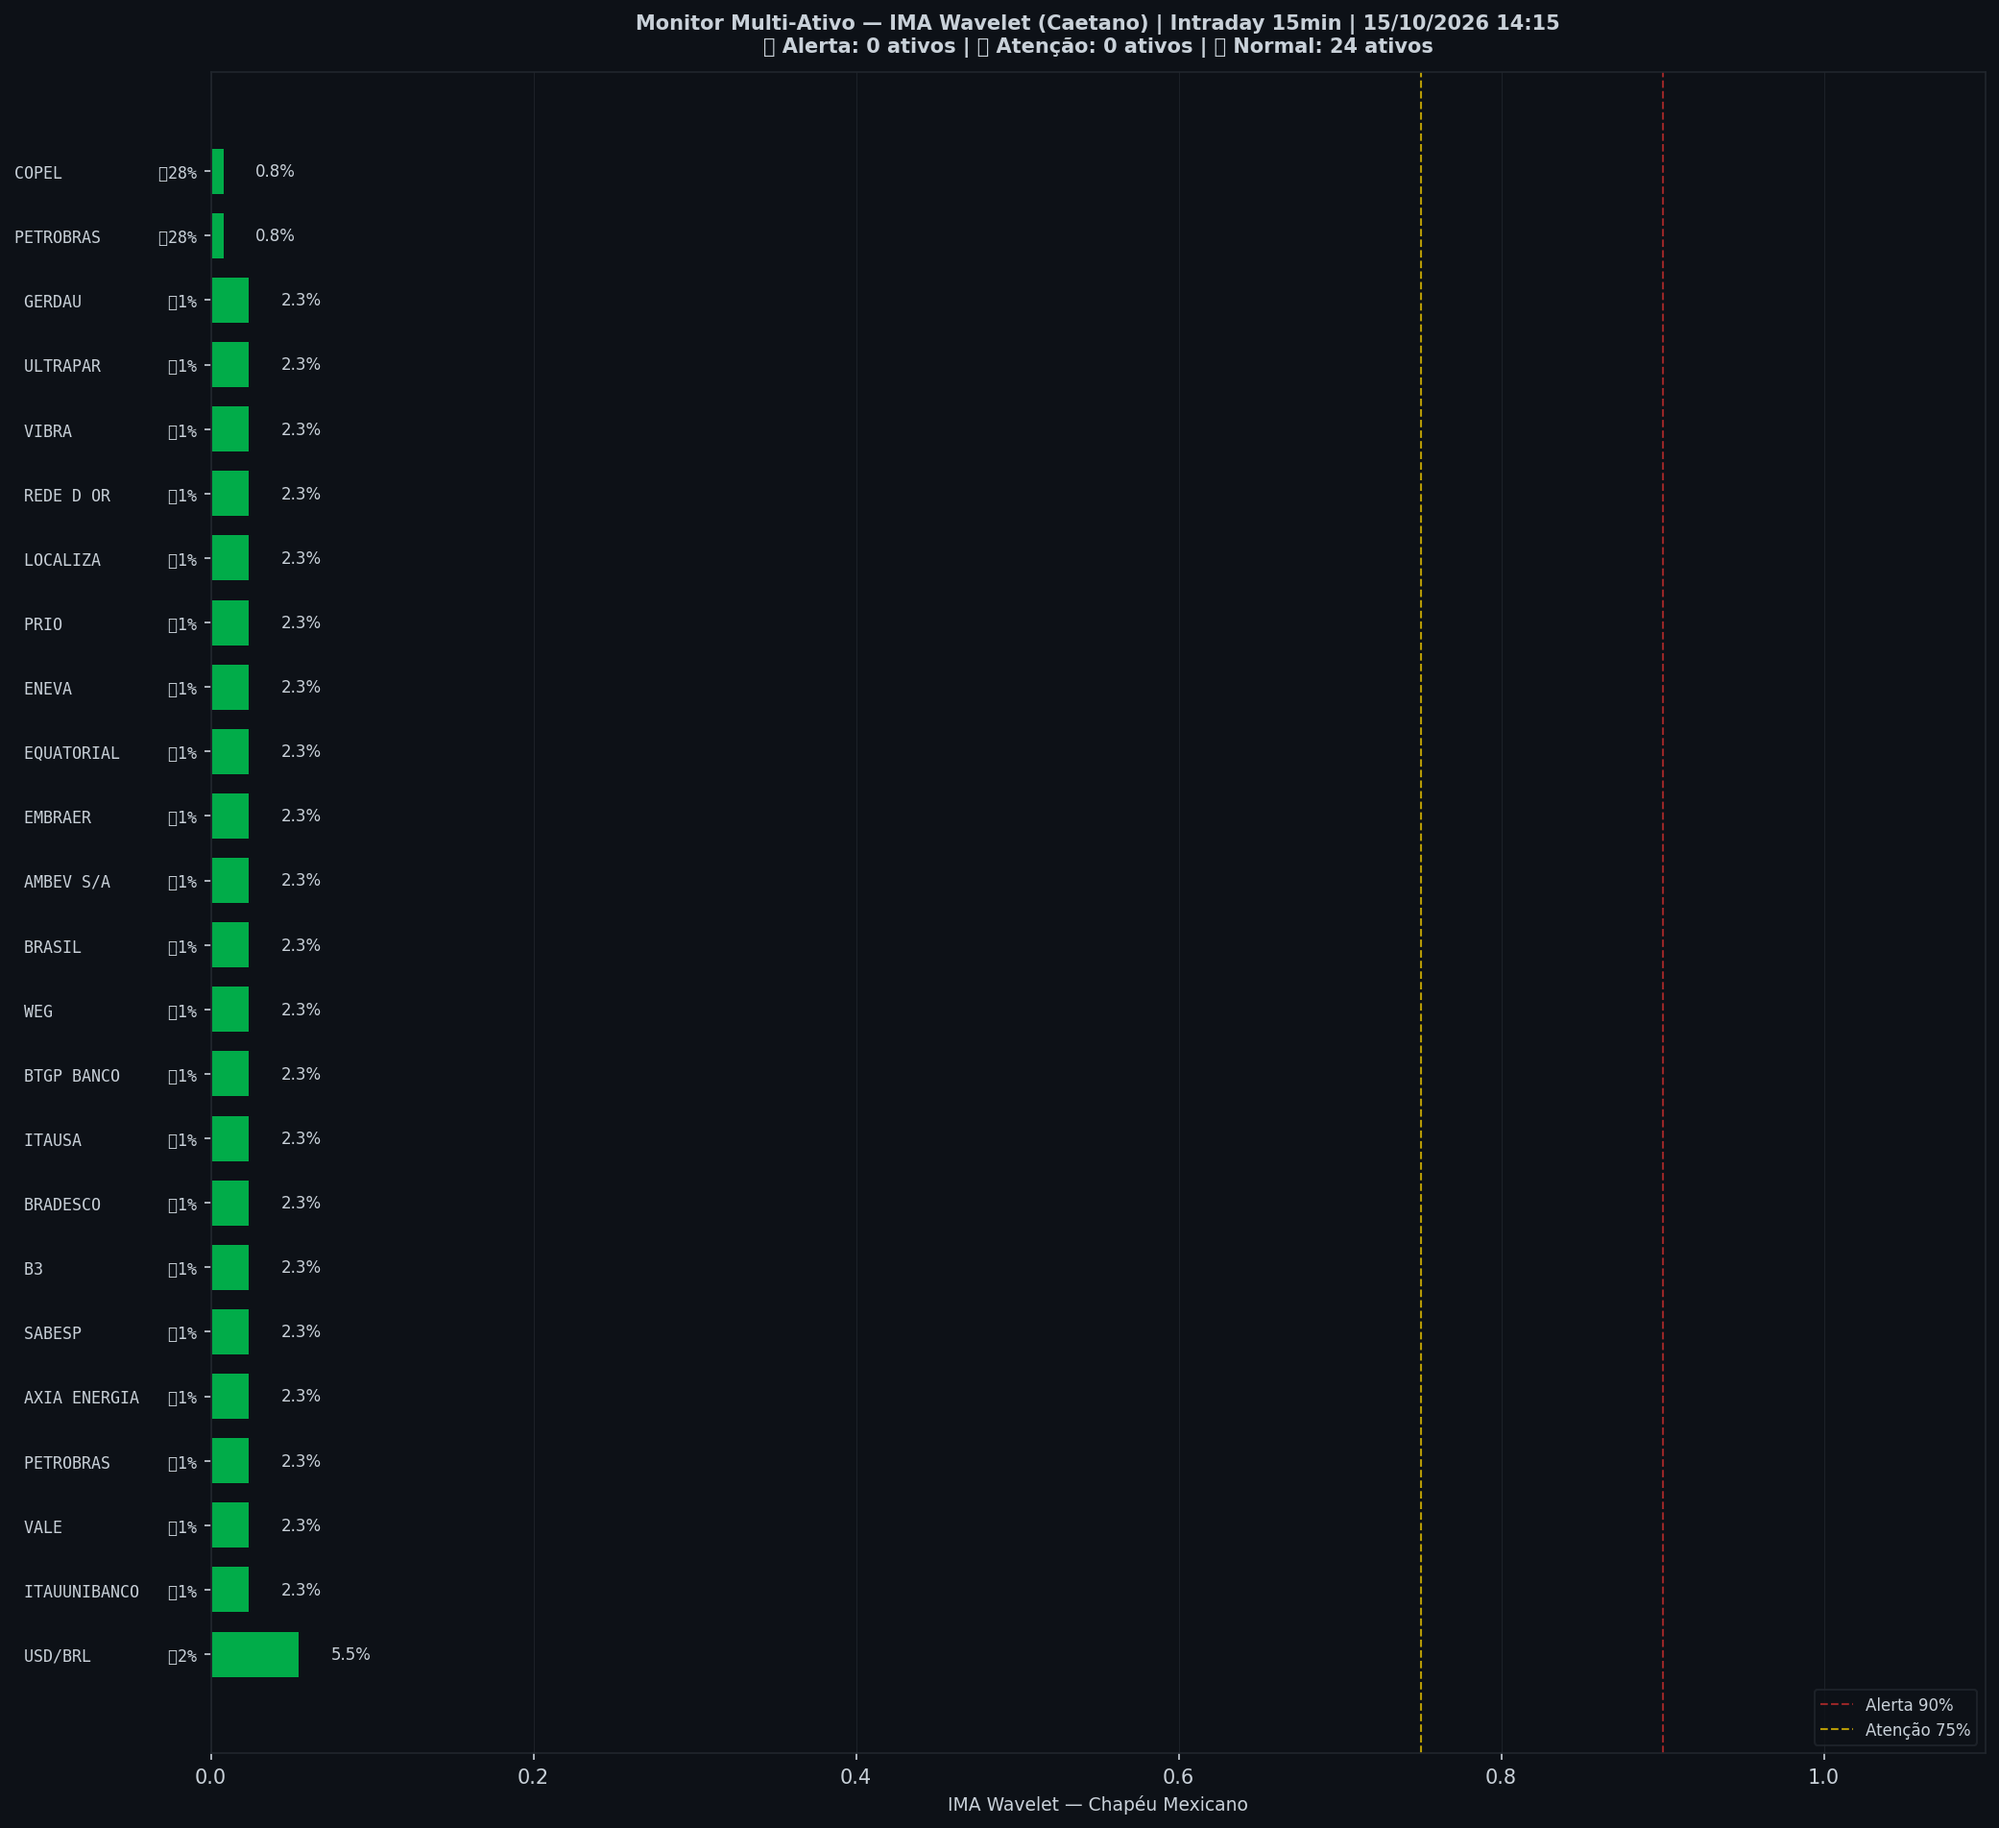
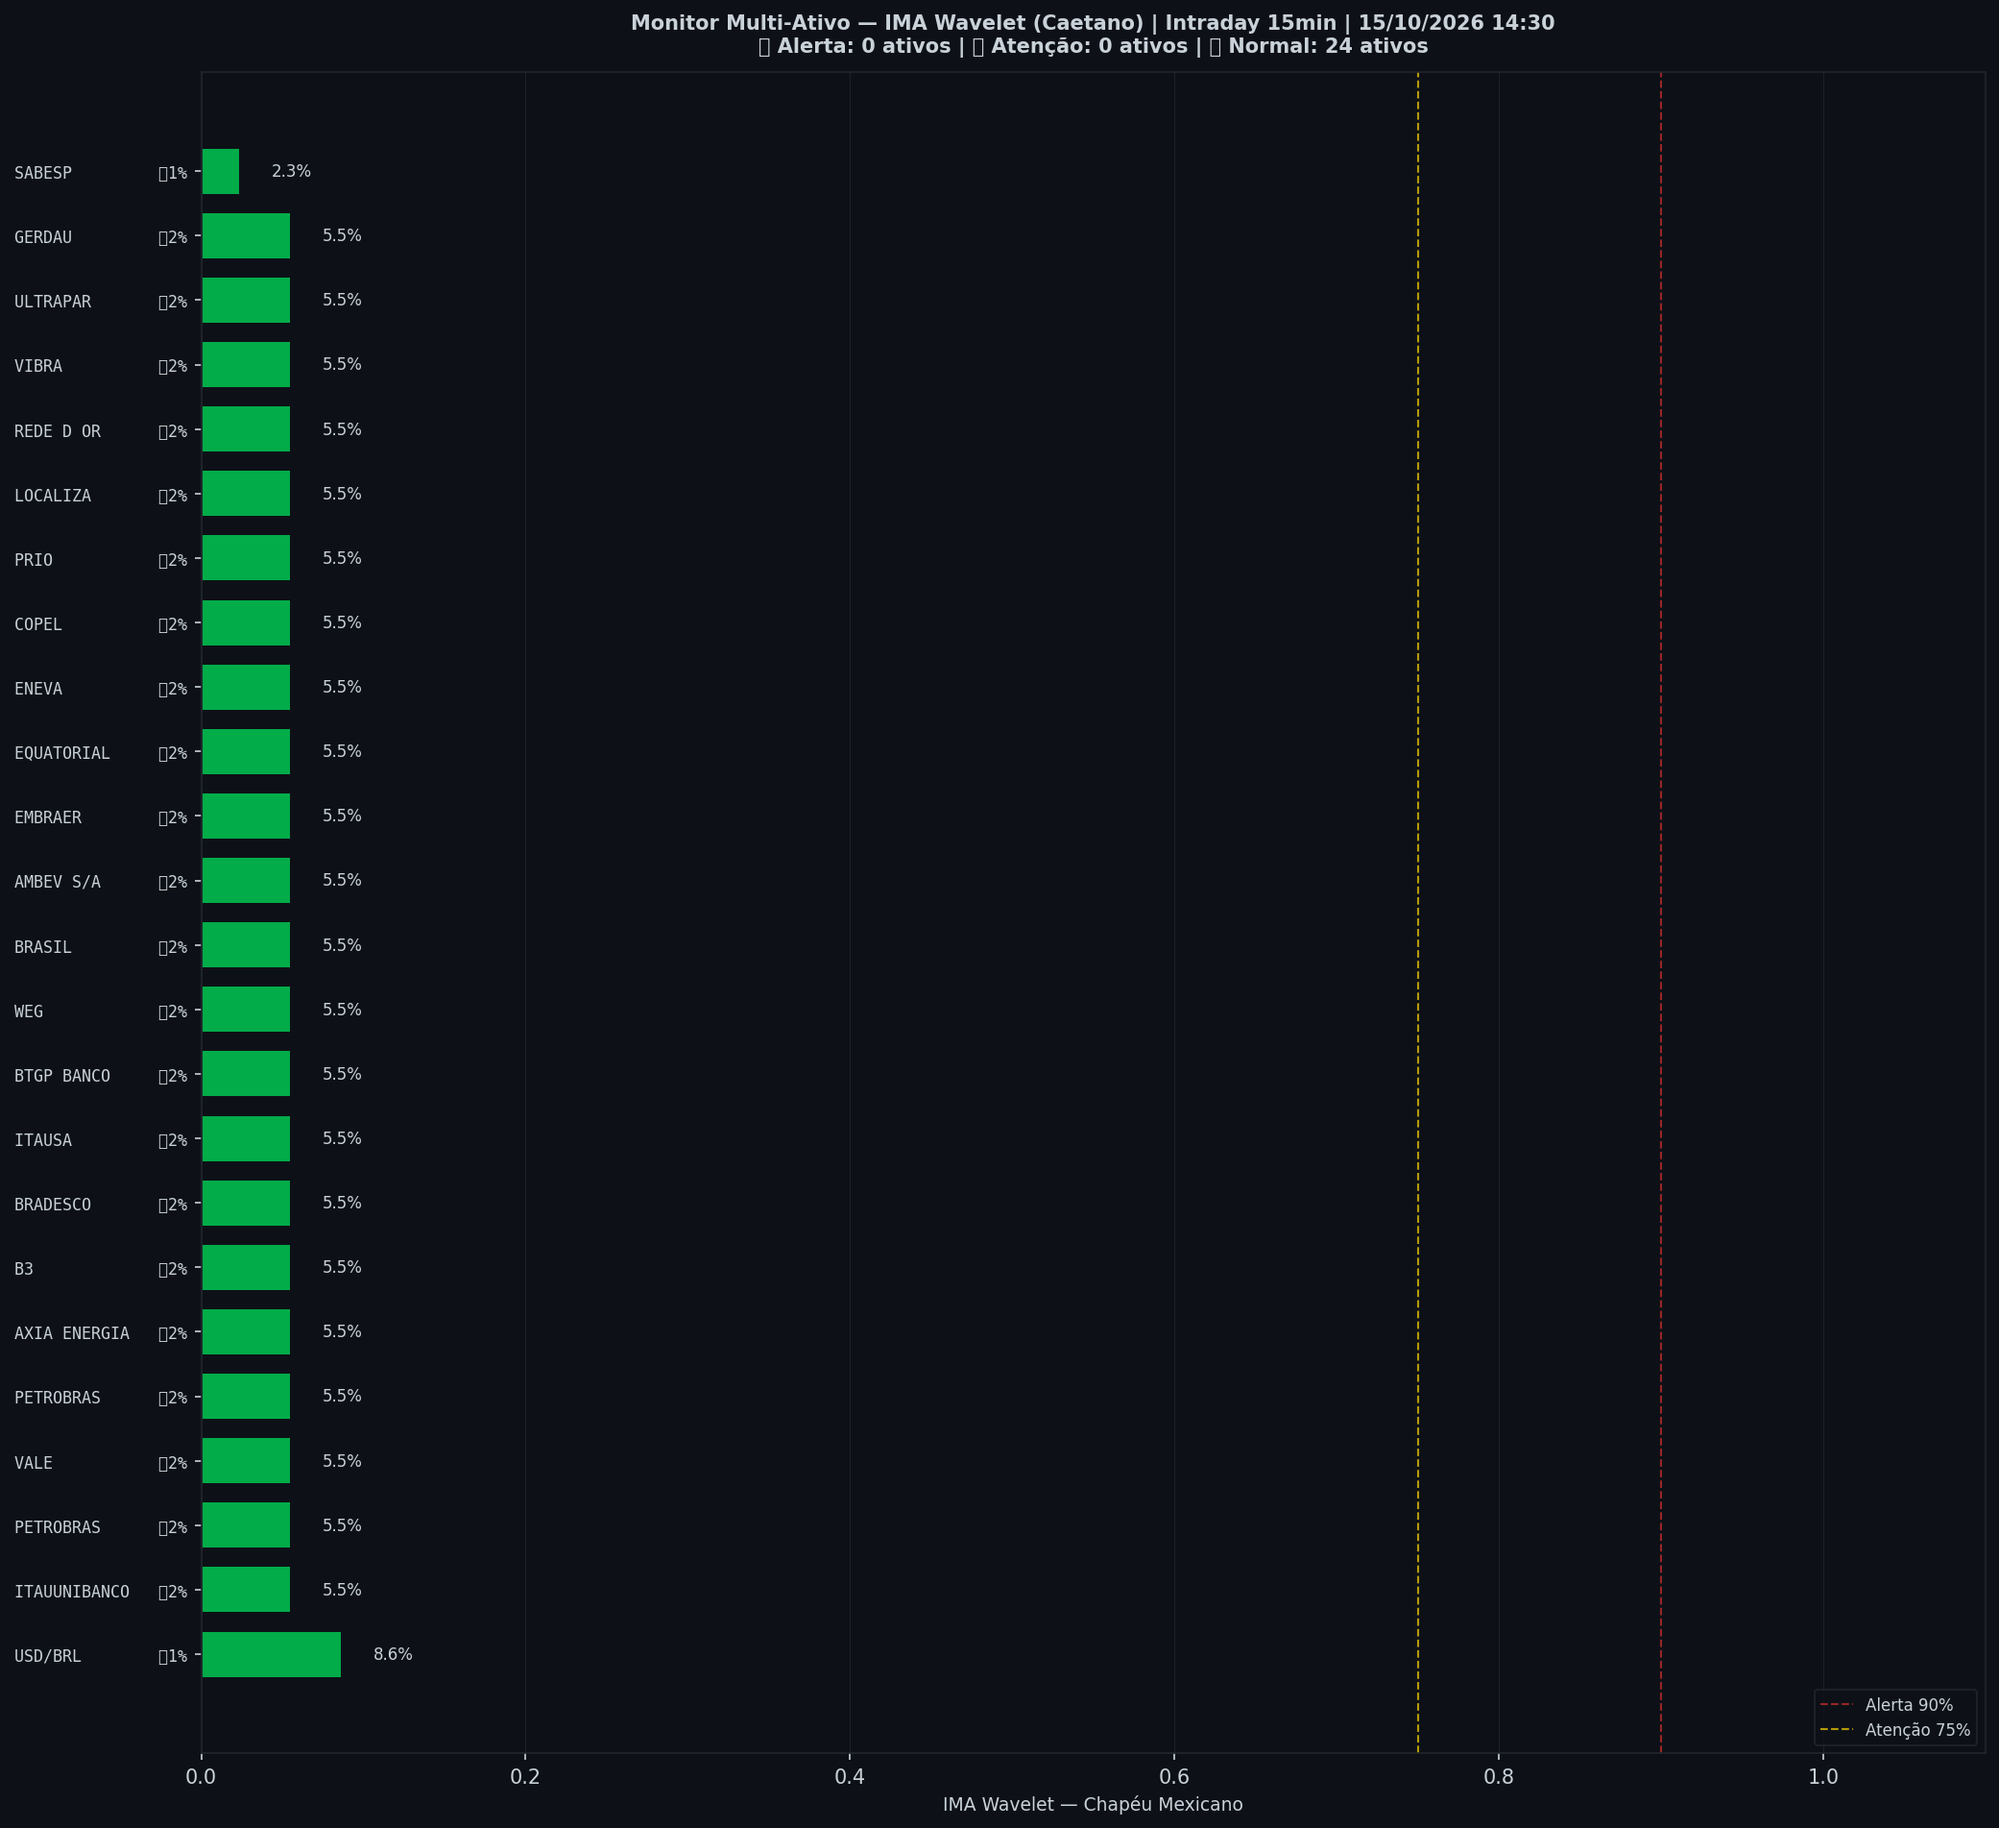
🤖 Auto: Sinal 15/10/2026 14:30

diff --git a/content/intraday/2026-10-15.md b/content/intraday/2026-10-15.md
@@ -1,5 +1,5 @@
 ---
-title: "🟢 Intraday 15/10/2026 13:30 BRT — VERDE"
+title: "🟢 Intraday 15/10/2026 13:45 BRT — VERDE"
 date: 2026-10-15
 tags: [intraday]
 ---
@@ -14,7 +14,7 @@ tags: [intraday]
 | 🔴 ζ Crash — severidade da queda em curso | **0%** |
 | 🔵 ζ Entrada — estrutura de fundo | 38% |
 | 🫧 LPPL DS-Confidence | 0% |
-| 📊 Ibovespa | 205.900 pts |
+| 📊 Ibovespa | 205.621 pts |
 
 ![Gráfico do sinal](../graficos/sinal_intraday.png)
 
@@ -22,6 +22,7 @@ tags: [intraday]
 
 | Data | Zona | Risco | IMA Crash | Entrada | LPPL |
 |---|---|---|---|---|---|
+| 2026-10-15 13:45 | 🟢 VERDE | **0%** | 0% | 38% | 0% |
 | 2026-10-15 13:30 | 🟢 VERDE | **0%** | 0% | 38% | 0% |
 | 2026-10-15 13:15 | 🟢 VERDE | **0%** | 0% | 36% | 0% |
 | 2026-10-15 13:00 | 🟢 VERDE | **1%** | 1% | 34% | 0% |
@@ -51,7 +52,6 @@ tags: [intraday]
 | 2026-10-14 14:00 | 🟢 VERDE | **0%** | 0% | 2% | 0% |
 | 2026-10-14 13:45 | 🟢 VERDE | **1%** | 1% | 8% | 0% |
 | 2026-10-14 13:30 | 🟢 VERDE | **0%** | 0% | 79% | 0% |
-| 2026-10-14 13:15 | 🟢 VERDE | **0%** | 0% | 83% | 0% |
 
 ## Monitor Multi-Ativo
 
@@ -59,34 +59,34 @@ tags: [intraday]
 
 | Zona | Ativo | Setor | IMA Crash | IMA Entrada |
 |---|---|---|---|---|
-| 🟢 | **USD/BRL** | Câmbio | 5.5% | 1.6% |
-| 🟢 | **ITAUUNIBANCO** | Financeiro | 2.3% | 0.8% |
-| 🟢 | **VALE** | Mineração | 2.3% | 0.8% |
-| 🟢 | **PETROBRAS** | Petróleo | 2.3% | 0.8% |
-| 🟢 | **AXIA ENERGIA** | Energia | 2.3% | 0.8% |
+| 🟢 | **USD/BRL** | Câmbio | 8.6% | 0.8% |
+| 🟢 | **ITAUUNIBANCO** | Financeiro | 5.5% | 1.6% |
+| 🟢 | **PETROBRAS** | Petróleo | 5.5% | 1.6% |
+| 🟢 | **VALE** | Mineração | 5.5% | 1.6% |
+| 🟢 | **PETROBRAS** | Petróleo | 5.5% | 1.6% |
+| 🟢 | **AXIA ENERGIA** | Energia | 5.5% | 1.6% |
+| 🟢 | **B3** | Financeiro | 5.5% | 1.6% |
+| 🟢 | **BRADESCO** | Financeiro | 5.5% | 1.6% |
+| 🟢 | **ITAUSA** | Financeiro | 5.5% | 1.6% |
+| 🟢 | **BTGP BANCO** | Financeiro | 5.5% | 1.6% |
+| 🟢 | **WEG** | Industrial | 5.5% | 1.6% |
+| 🟢 | **BRASIL** | Financeiro | 5.5% | 1.6% |
+| 🟢 | **AMBEV S/A** | Consumo | 5.5% | 1.6% |
+| 🟢 | **EMBRAER** | Outros | 5.5% | 1.6% |
+| 🟢 | **EQUATORIAL** | Energia | 5.5% | 1.6% |
+| 🟢 | **ENEVA** | Energia | 5.5% | 1.6% |
+| 🟢 | **COPEL** | Energia | 5.5% | 1.6% |
+| 🟢 | **PRIO** | Petróleo | 5.5% | 1.6% |
+| 🟢 | **LOCALIZA** | Aluguel | 5.5% | 1.6% |
+| 🟢 | **REDE D OR** | Saúde | 5.5% | 1.6% |
+| 🟢 | **VIBRA** | Energia | 5.5% | 1.6% |
+| 🟢 | **ULTRAPAR** | Outros | 5.5% | 1.6% |
+| 🟢 | **GERDAU** | Siderurgia | 5.5% | 1.6% |
 | 🟢 | **SABESP** | Saneamento | 2.3% | 0.8% |
-| 🟢 | **B3** | Financeiro | 2.3% | 0.8% |
-| 🟢 | **BRADESCO** | Financeiro | 2.3% | 0.8% |
-| 🟢 | **ITAUSA** | Financeiro | 2.3% | 0.8% |
-| 🟢 | **BTGP BANCO** | Financeiro | 2.3% | 0.8% |
-| 🟢 | **WEG** | Industrial | 2.3% | 0.8% |
-| 🟢 | **BRASIL** | Financeiro | 2.3% | 0.8% |
-| 🟢 | **AMBEV S/A** | Consumo | 2.3% | 0.8% |
-| 🟢 | **EMBRAER** | Outros | 2.3% | 0.8% |
-| 🟢 | **EQUATORIAL** | Energia | 2.3% | 0.8% |
-| 🟢 | **ENEVA** | Energia | 2.3% | 0.8% |
-| 🟢 | **PRIO** | Petróleo | 2.3% | 0.8% |
-| 🟢 | **LOCALIZA** | Aluguel | 2.3% | 0.8% |
-| 🟢 | **REDE D OR** | Saúde | 2.3% | 0.8% |
-| 🟢 | **VIBRA** | Energia | 2.3% | 0.8% |
-| 🟢 | **ULTRAPAR** | Outros | 2.3% | 0.8% |
-| 🟢 | **GERDAU** | Siderurgia | 2.3% | 0.8% |
-| 🟢 | **PETROBRAS** | Petróleo | 0.8% | 28.1% |
-| 🟢 | **COPEL** | Energia | 0.8% | 28.1% |
 
 ![Monitor multi-ativo](../graficos/multi_intraday.png)
 
-*Página atualizada em 15/10/2026 14:15 BRT (leitura da barra de 2026-10-15 13:30 BRT).*
+*Página atualizada em 15/10/2026 14:30 BRT (leitura da barra de 2026-10-15 13:45 BRT).*
 
 > [!info]- Como interpretar (clique para expandir)
 > - **ζ Crash**: fração dos coeficientes wavelet acima do corte (Caetano & Yoneyama 2009). Escala absoluta: ζ=0,90 = 90% dos coeficientes anômalos — historicamente, quedas com ζ≥0,90 foram mais fundas e mais longas. **Mede a severidade do movimento em curso, não prevê o início da queda.**

diff --git a/content/index.md b/content/index.md
@@ -8,7 +8,7 @@ tags: [home]
 
 Monitoramento diário e intraday do Ibovespa — **IMA Wavelet** (Prof. Marco Antonio Leonel Caetano, ITA/INSPER) + **LPPL DS-Confidence** (Prof. Didier Sornette, ETH-Zurich).
 
-*Última atualização: 15/10/2026 14:15 BRT · ^BVSP · Intraday 15min · v4*
+*Última atualização: 15/10/2026 14:30 BRT · ^BVSP · Intraday 15min · v4*
 
 > [!success] 🟢 **VERDE** — Risco 0% · ＝ +0 p.p. vs leitura anterior
 > `░░░░░░░░░░░░░░░░░░░░`
@@ -20,7 +20,7 @@ Monitoramento diário e intraday do Ibovespa — **IMA Wavelet** (Prof. Marco An
 | 🔴 ζ Crash — severidade da queda em curso | **0%** |
 | 🔵 ζ Entrada — estrutura de fundo | 38% |
 | 🫧 LPPL DS-Confidence | 0% |
-| 📊 Ibovespa | 205.900 pts |
+| 📊 Ibovespa | 205.621 pts |
 
 **Multi-ativo:** 0% em tensão (0🔴 0🟡 de 24 ativos)
 

diff --git a/content/historico.md b/content/historico.md
@@ -7,6 +7,7 @@ tags: [historico]
 
 | Data | Modo | Zona | Risco | IMA | LPPL |
 |---|---|---|---|---|---|
+| 2026-10-15 13:45 | intraday | 🟢 VERDE | 0% | 0% | 0% |
 | 2026-10-15 13:30 | intraday | 🟢 VERDE | 0% | 0% | 0% |
 | 2026-10-15 13:15 | intraday | 🟢 VERDE | 0% | 0% | 0% |
 | 2026-10-15 13:00 | intraday | 🟢 VERDE | 1% | 1% | 0% |
